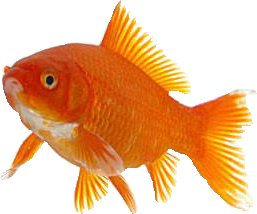
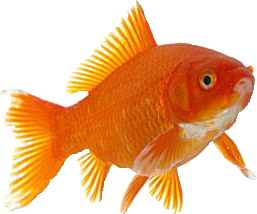
update Readme, ajout commentaire, résolution bug taille liste, ajout image qui se retourne selon direction poisson

diff --git a/Affichage/Panel.java b/Affichage/Panel.java
@@ -6,7 +6,12 @@ import java.util.LinkedList;
 	
 import javax.imageio.ImageIO;
 import javax.swing.JPanel;
-	
+
+/*
+
+  Thanks to the repaint method, displays the Fishes.
+
+ */	
 	
 @SuppressWarnings("serial")
 	 
@@ -70,25 +75,23 @@ public class Panel extends JPanel {
 	String fishPath;
 	boolean found = false;
 
+	int listSize = 0;
+	
+
 	try {        	
 	    img = ImageIO.read(new File("res/fond_ecran1.jpg"));
 	    g.drawImage(img, 0, 0, tailleEcranX, tailleEcranY, this);
-	        		
+	        	
+	    listSize = listFish.size();
 	    for (int i =0; i < listFish.size(); i++){
 		  		
-		/*if (fishEnum.contains(listFish.get(i).getFishType()))
-		  fishPath = "res/"+listFish.get(i).getFishType()+".png";
-		  else
-		  fishPath = defaultPath;
-			    
-		*/
 		fishPath = pathToFish (fishEnum,listFish.get(i).getFishType());
 		
 		img = ImageIO.read(new File(fishPath));
-		if(listFish.get(i) != null){
+
+		if(listSize == listFish.size() ){
 		    posX = ((int)listFish.get(i).getCoord().x) * tailleEcranX / 100;
-		    posY = ((int)listFish.get(i).getCoord().y) * tailleEcranY / 100;
-		
+		    posY = ((int)listFish.get(i).getCoord().y) * tailleEcranY / 100;	        		
 	        			
 		    tailleX = listFish.get(i).getSizeX() * tailleEcranX / 100;
 		    tailleY = listFish.get(i).getSizeY() * tailleEcranY / 100;    		
@@ -99,9 +102,9 @@ public class Panel extends JPanel {
 		    else{
 			g.drawImage(img, posX, posY, tailleX, tailleY, this);
 		    }
-		}
-	        		
+		} 
 	    }
+	    
 	} catch (IOException e) {
 	    e.printStackTrace();
 	}       

diff --git a/Affichage/Fish.java b/Affichage/Fish.java
@@ -1,3 +1,7 @@
+/*
+  Describes a Fish. Contains attributes and a method to update its coordinates.
+
+ */
 public class Fish {
 
     private String fishType;
@@ -23,9 +27,14 @@ public class Fish {
     	this.dist_x = nextDest.x - coord.x;
     	this.dist_y =  nextDest.y - coord.y;
     	this.timeToDest = time;
-    	this.inversed = false;
+	if (dist_x < 0)
+	    this.inversed = true;
+	else 
+	    this.inversed = false;
     }
-     
+    
+    
+    
     //Return time repaint
     public void move (int time_elapsed){
 	

diff --git a/Affichage/Client.java b/Affichage/Client.java
@@ -6,7 +6,7 @@ import java.net.Socket;
 import java.net.UnknownHostException;
 
 /*
-Main class: Create connection with the controller and
+Main class: Create connection with the controller and create a window to display the fishes. Also creates 3 threads that respectively send ping, read server messages and read console input.
 */
 
 
@@ -52,6 +52,7 @@ public class Client {
 	    if (stock.compareTo("no greeting") == 0){
 		System.out.println(stock);	
 		socket.close();
+		System.exit(0);
 	    }
 		    
 	    else{

diff --git a/Affichage/Parser.java b/Affichage/Parser.java
@@ -2,7 +2,10 @@ import java.util.Scanner;
 import java.util.LinkedList;
 import java.util.HashMap;
 
-	
+/*
+  Parses the answer to getFishesContinuously to a list of fishes.
+
+ */	
 
 public class Parser { 
 
@@ -67,8 +70,7 @@ public class Parser {
 		    
 		    if (!found){
 			fishes.add((j-1)/5, new Fish(fishType, size_x, size_y, coord_x, coord_y, speed, new Point(0,0)));
-			//System.out.println("not found");
-		        
+		       	        
 		    }
 		    
 		}

diff --git a/Affichage/Window.java b/Affichage/Window.java
@@ -3,7 +3,10 @@ import java.awt.Color;
 import java.util.LinkedList;
 import java.awt.BorderLayout;
 
+/*
+  The graphic object representing the window. Calls the repaint method of the panel each time a fish has to move.
 
+ */
 @SuppressWarnings("serial")
 public class Window extends JFrame {  
     private final int refreshRate = 1; // milliseconds

diff --git a/Affichage/ReadServerMessages.java b/Affichage/ReadServerMessages.java
@@ -4,7 +4,10 @@ import java.net.Socket;
 import java.util.LinkedList;
 import java.util.HashMap;
 
+/*
+  Reads the messages sent by the server and prints them when needed. Also updates the list of fishes of the window.
 
+ */
 
 public class ReadServerMessages implements Runnable{
 

diff --git a/Affichage/ReadCfg.java b/Affichage/ReadCfg.java
@@ -3,6 +3,11 @@ import java.io.FileInputStream;
 import java.io.InputStream;
 import java.io.InputStreamReader;
  
+/*
+  Parses the .cfg file and retains its data in the class in order to connect to the server. 
+
+ */
+
 public class ReadCfg {
      
     private String file;

diff --git a/Affichage/ReadUserMessages.java b/Affichage/ReadUserMessages.java
@@ -2,6 +2,10 @@ import java.util.Scanner;
 import java.io.PrintWriter;
 import java.util.LinkedList;
 
+/*
+  Reads the input from the console and stores each command into a list.
+
+ */
 
 
 public class ReadUserMessages implements Runnable{

diff --git a/Affichage/SendPing.java b/Affichage/SendPing.java
@@ -1,5 +1,10 @@
 import java.io.PrintWriter;
 
+/*
+  Sends a ping to the server each second.
+
+ */
+
 public class SendPing implements Runnable {
 
     private PrintWriter out = null;

diff --git a/README.md b/README.md
@@ -32,6 +32,8 @@ dépendance :
 Pour envoyer plusieurs commandes en une seule fois, assurez-vous d'avoir copié-collé un retour à la ligne (ligne vide) à la fin. Il ne sera alors pas nécessaire d'appuyer sur la touche entrée.
 
 Si vous essayez d'ajouter un poisson dont le nom ne correspond pas à une image, l'image Base.png sera utilisée pour l'affichage.
+Si le nom du poisson contient le nom d'une des images, alors il sera représenté par cette image. 
+Ex : Empereur_1, Empereur_2, Empereurazerty, GrandEmpereur afficheront Empereur.png
 
 
 = Liste des commandes reconnues =
